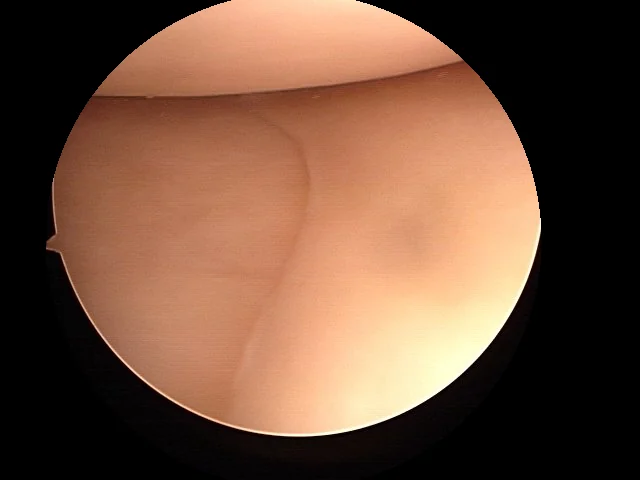
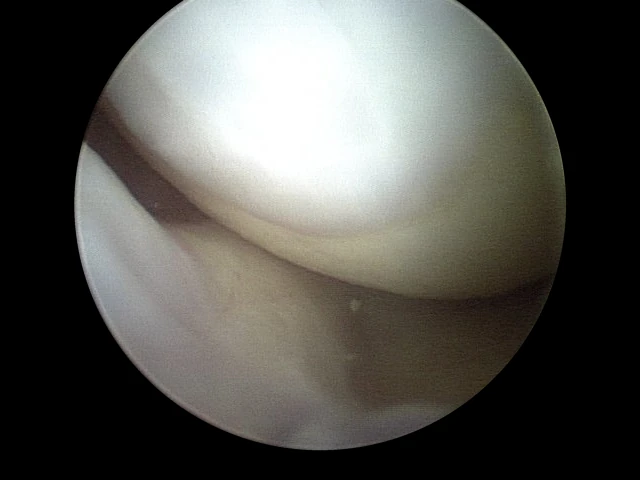
fix: 무릎 관절내시경 2개월 후 관절 모습 이미지 교체

diff --git a/src/components/knee-arthroscopy/KneeCartilageTreatmentSteps.tsx b/src/components/knee-arthroscopy/KneeCartilageTreatmentSteps.tsx
@@ -98,7 +98,7 @@ const treatmentSteps: TreatmentStep[] = [
     points: ['치료 부위 관절면의 상태', '주변 조직과 관절 내부 점검'],
     images: [
       {
-        src: `${ASSET_ROOT}/cartilage-step-06-a.webp`,
+        src: `${ASSET_ROOT}/cartilage-step-06-a-v2.webp`,
         alt: '치료 2개월 후 관절내시경으로 확인한 무릎 관절면',
       },
     ],
